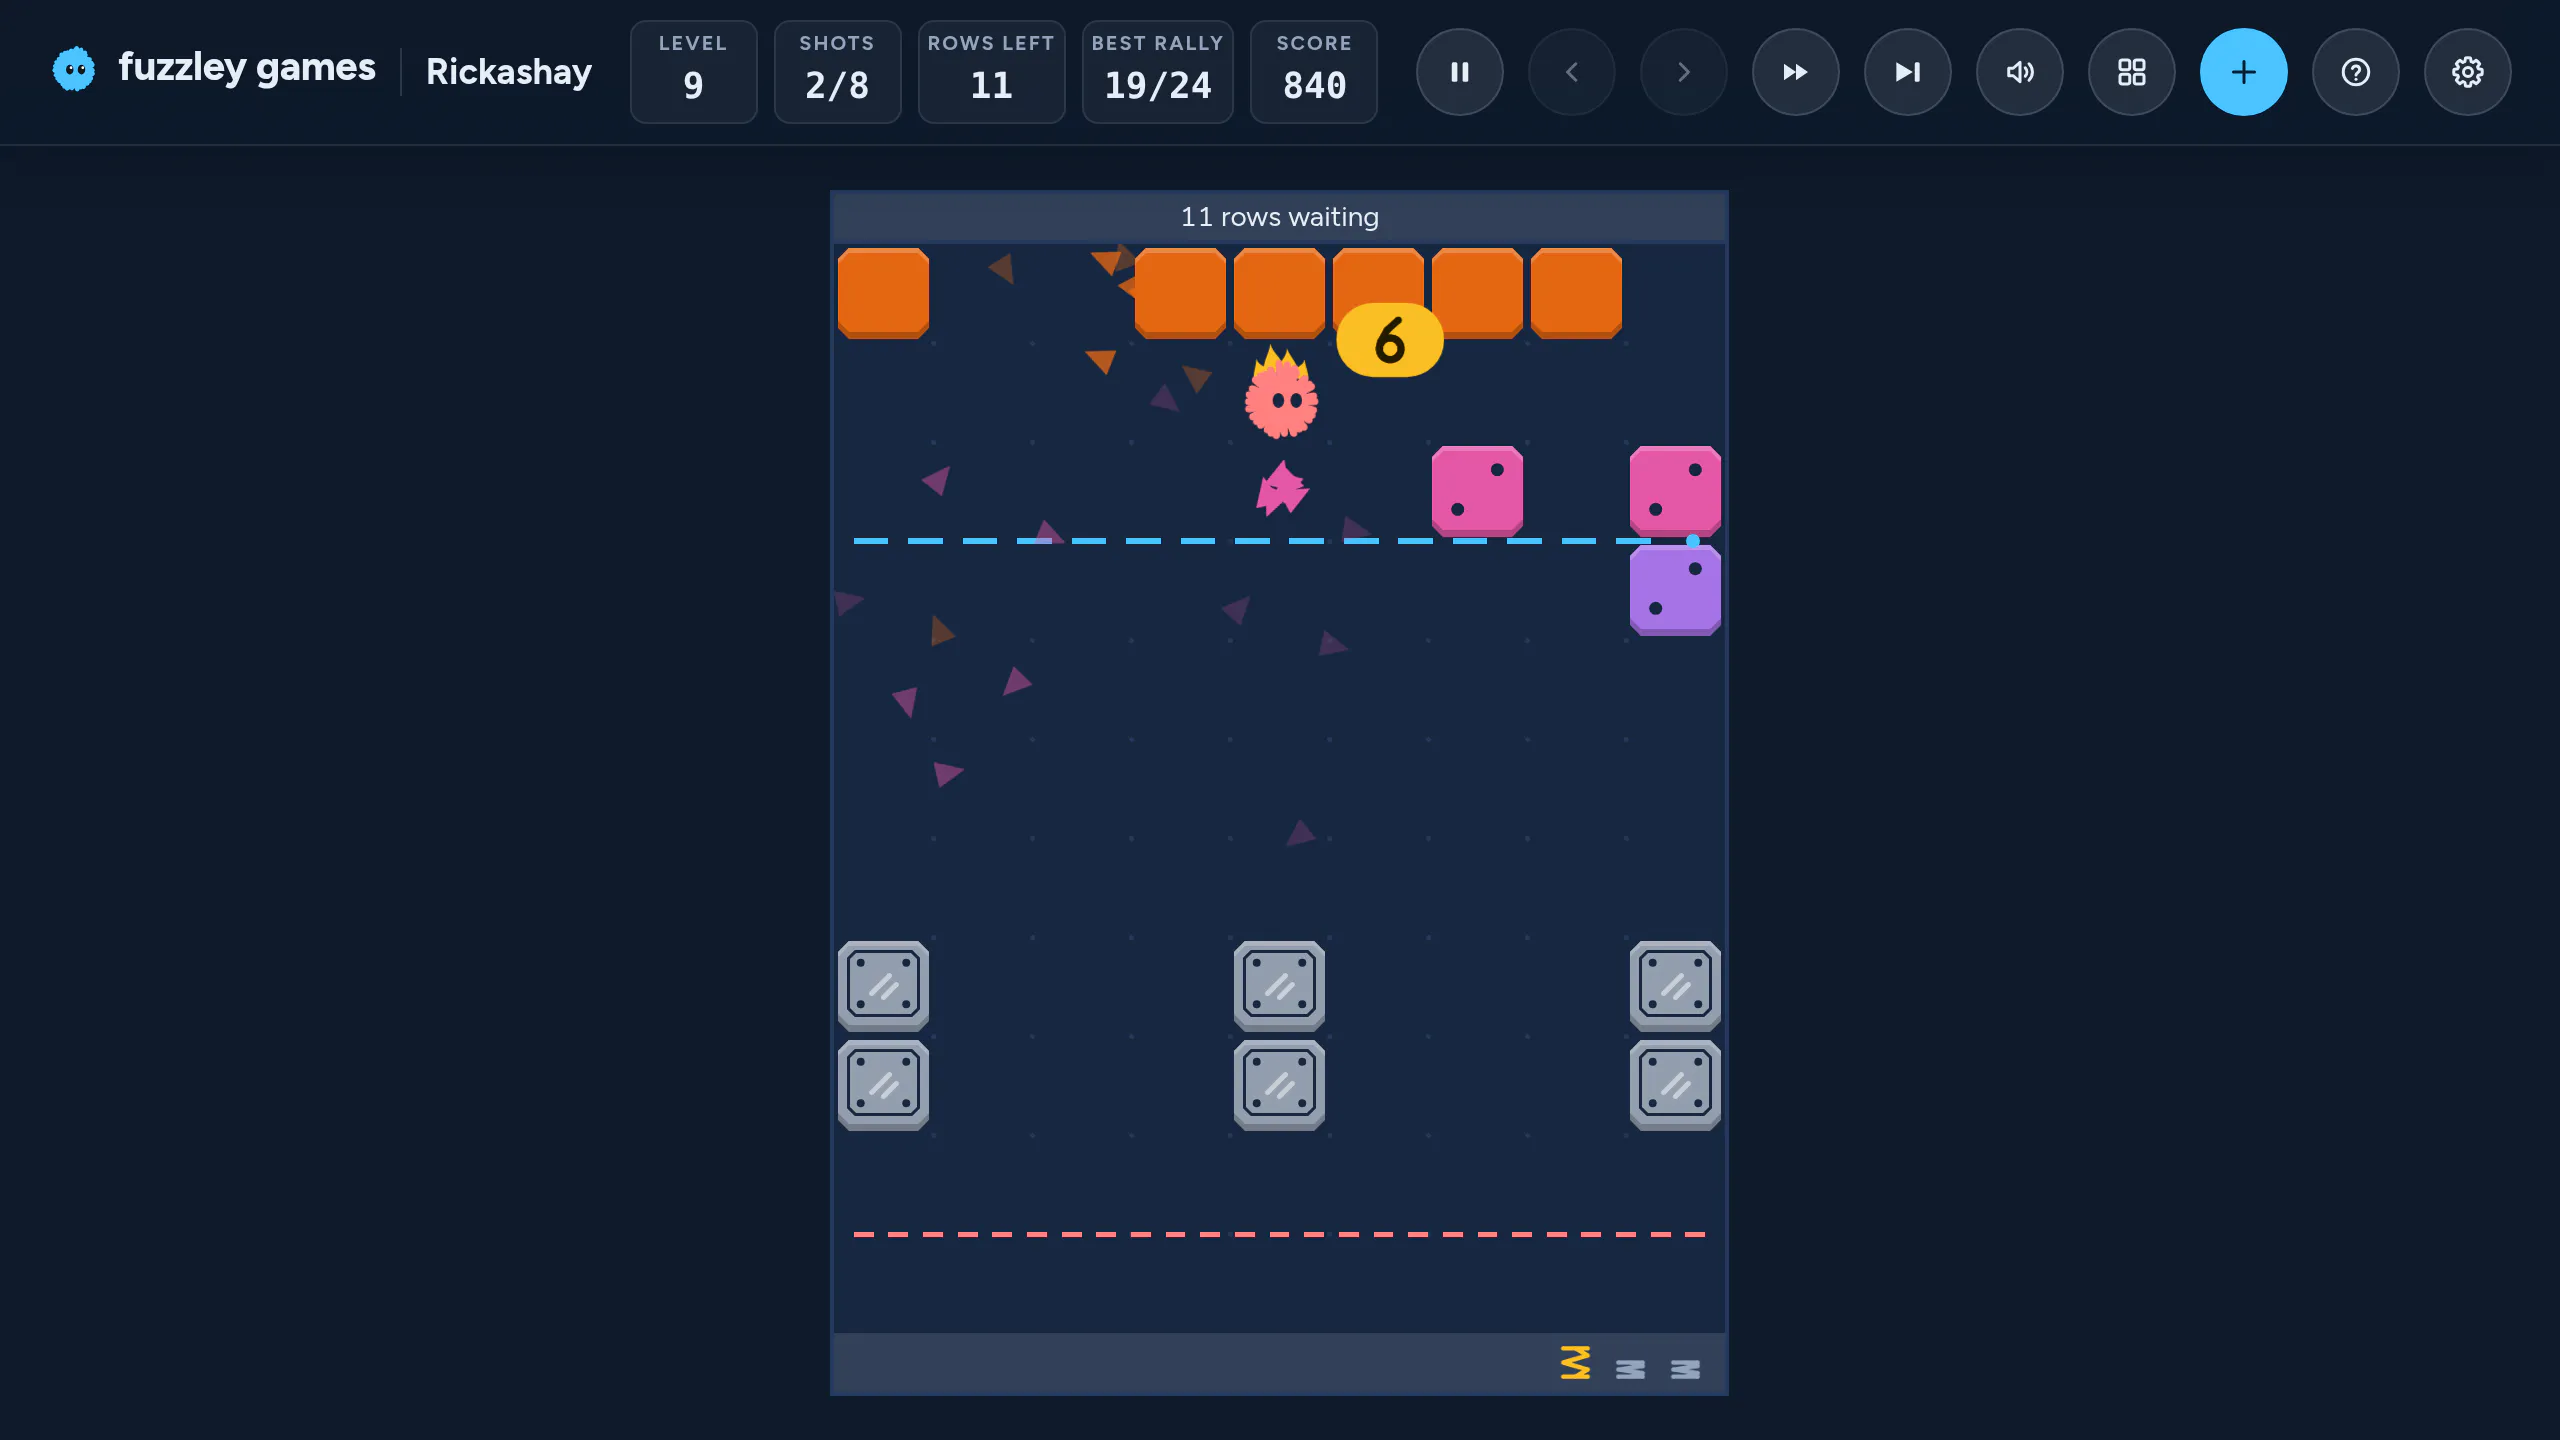
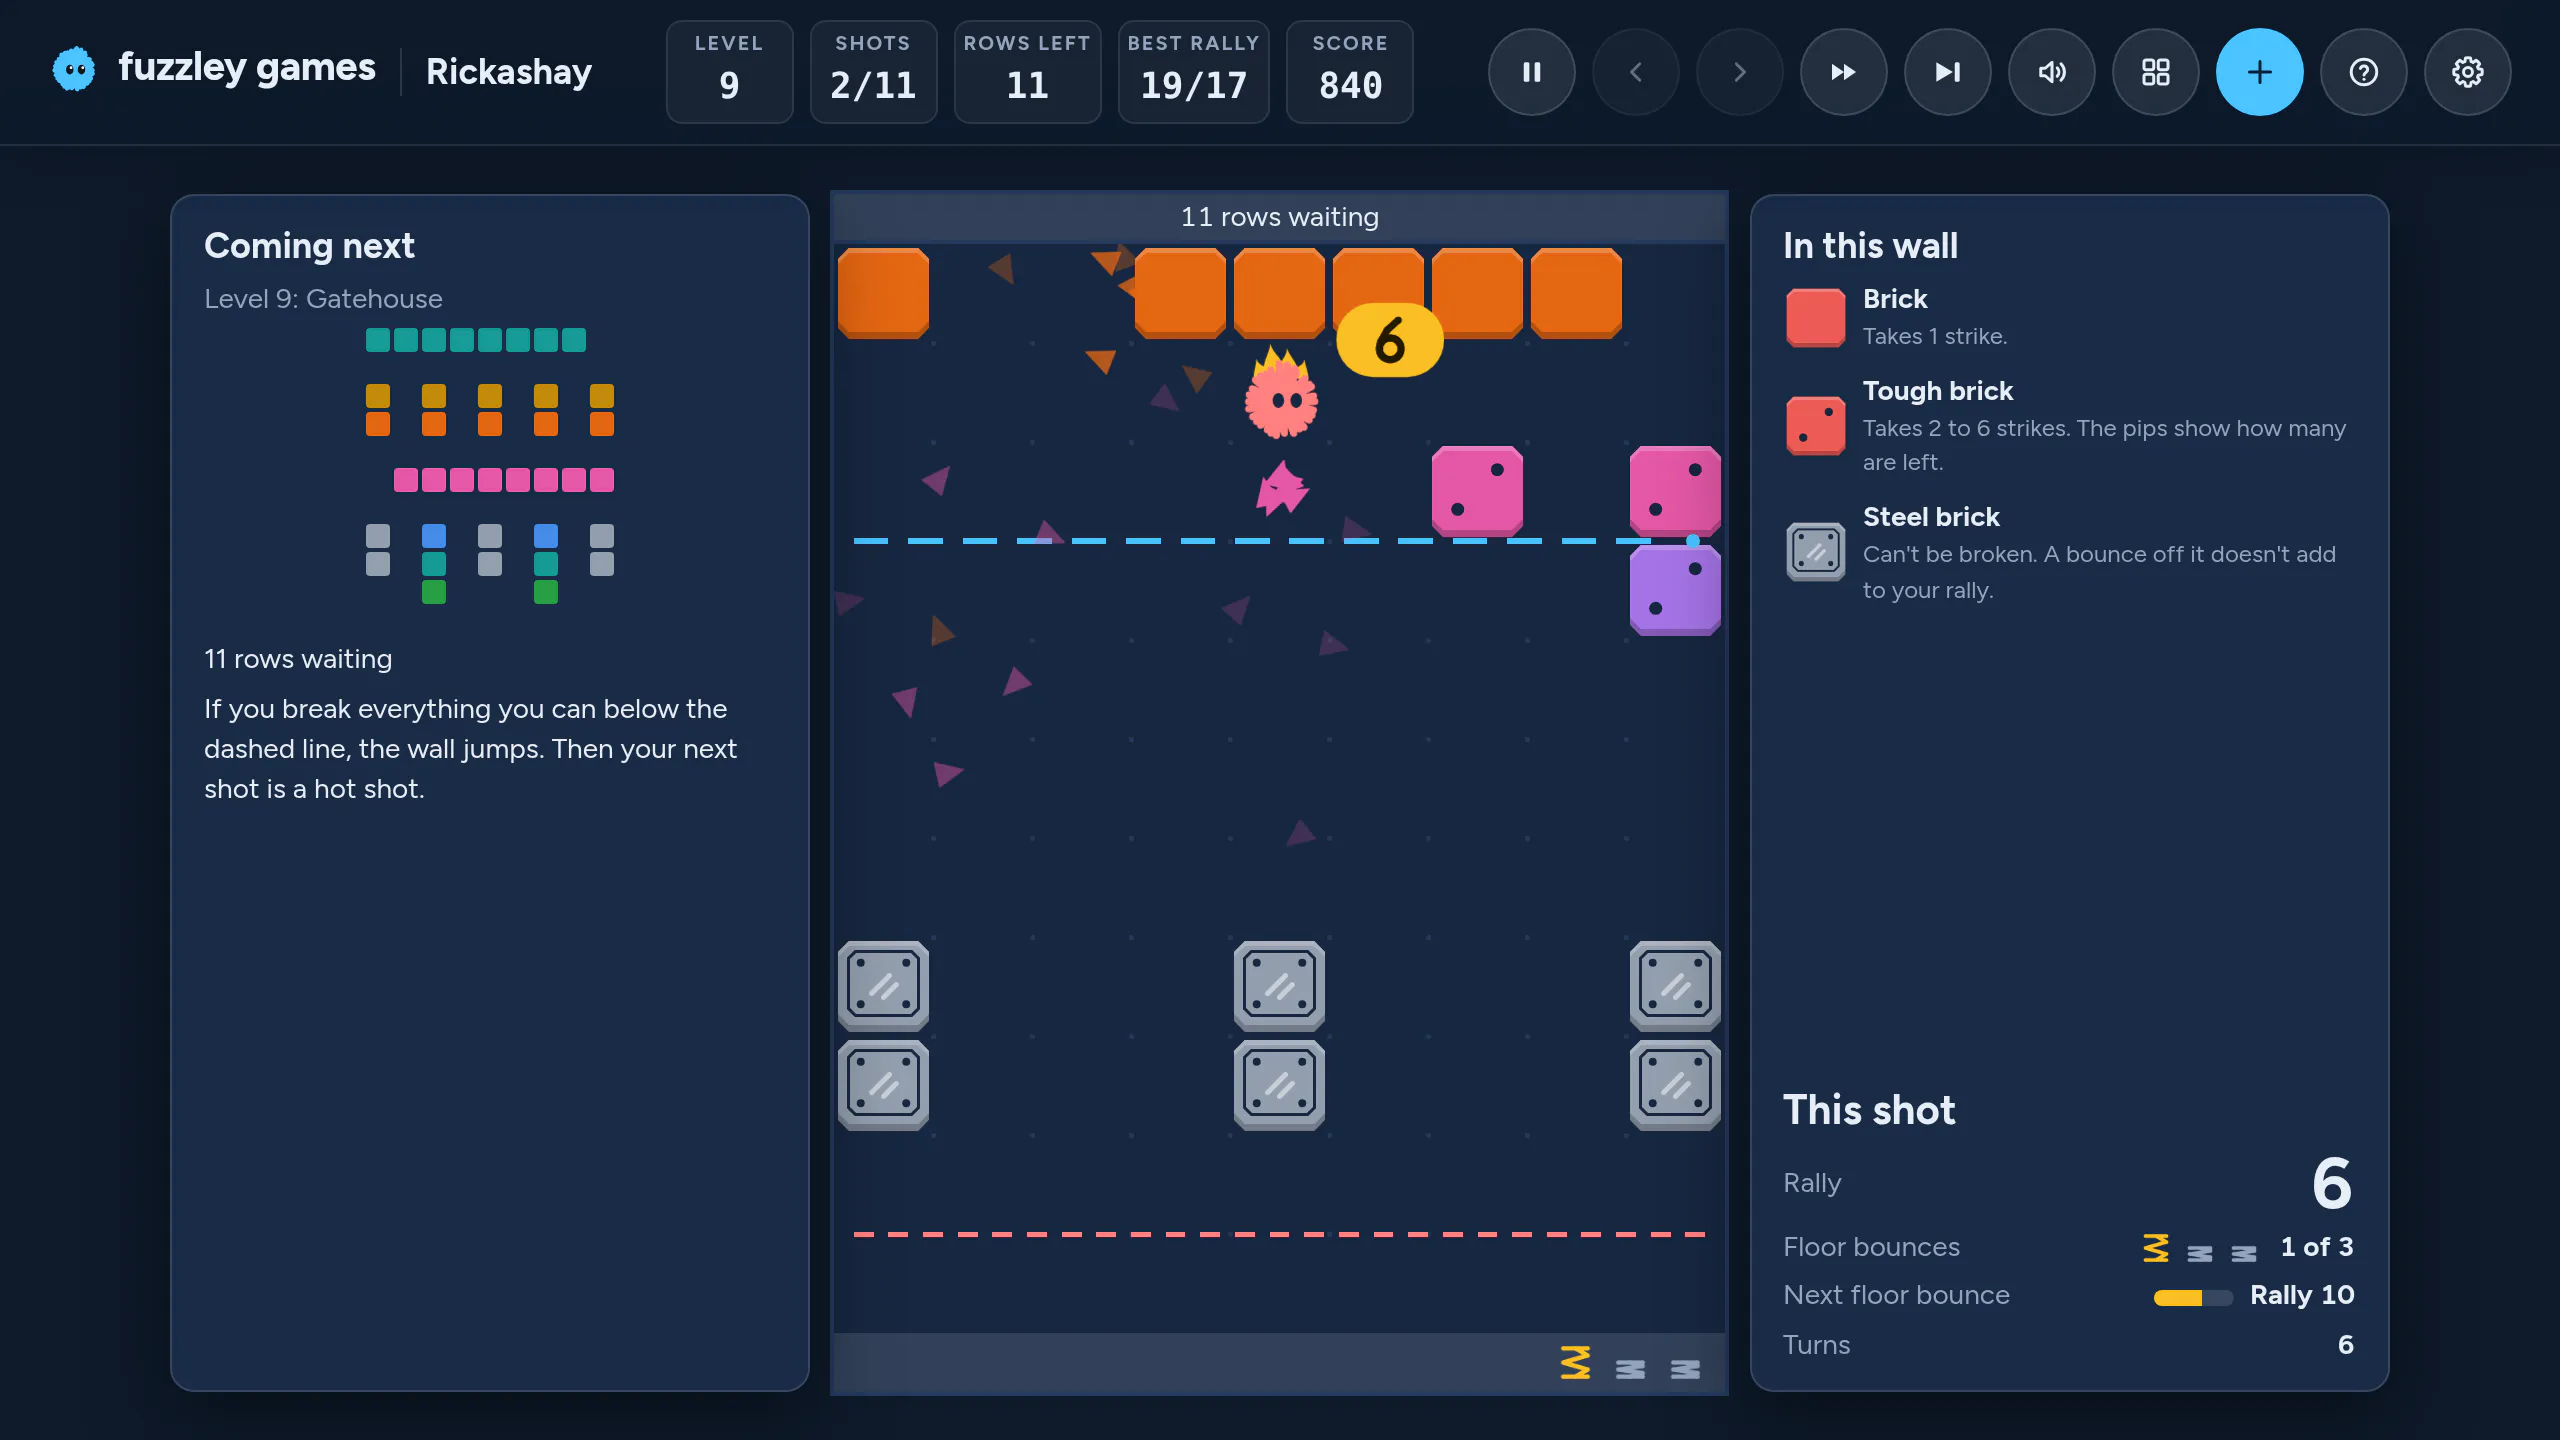
feat(rickashay): play every set on its certified marks, Warm-up's too, listed once beside the sets
GAME_MARKS read Warm-up's pars and rally marks from
src/app/play/warm_up_marks.json, a copy of the specs' hand-made fixture,
since the game came before yarn certify:levels wrote marks/warm-up.json.
src/rules/levels/level_marks.ts now lists every set's certified marks
once, LEVEL_MARKS, beside levels.ts, so a set listed there adds one
line here. It is a module of its own, so levels.ts, which the run's
modules import, never imports the run's stars. The game's token,
every_level.ts' MARKS and the screenshots' API read it, and its spec
holds it to a par and a rally mark for every level on every depth and
for no other level. The app's copy is gone: nothing else read it. The
specs that read hand-made figures keep src/testing/warm_up_marks.json.

In the game, Warm-up's pars move on 78 of its 108 level-depths and its
rally marks on 103, each to what its certificate and its floor games
set. Par, from the fixture's to the certified, by depth:

                11  12  13  14  15  16  17  18  19  20  21  22
First bounce    +1  +1  -2   .  +2   .   .   .   .   .  +1   .
Side door        .   .  -1   .  -2   .  -2  -2  -1  -1   .  -1
Columns         +4  +3  +1  +3  -3  -3  -4  -3  -3  -2  -2  -3
Pips            +3  +2  +2  -1  +1  +1   .   .  -4  -3  -4  -4
Alleys          +3  +3   .   .  +2  +2  +3   .  +1  +3  +1  +1
Stairs           .   .   .  -3   .  -2  -2  -2   .  -1  -1   .
Girders         +3  +4  +1  +1  -3  -4  -4  -4  -3  -3  -3  -3
[…]

diff --git a/frontend/games/rickashay/src/app/tokens.ts b/frontend/games/rickashay/src/app/tokens.ts
@@ -1,13 +1,12 @@
 import { InjectionToken } from "@angular/core";
 import type { ComponentLoad } from "@fz/ui/on_demand";
 import type { Round, RoundStart } from "../rules/flight/events";
+import { LEVEL_MARKS } from "../rules/levels/level_marks";
 import { LEVELS, type LevelEntry } from "../rules/levels/levels";
-import anglesMarks from "../rules/levels/marks/angles.json";
 import { playRound } from "../rules/round/round";
-import { type Marks, marksOf } from "../rules/run/stars";
+import type { Marks } from "../rules/run/stars";
 import type { Shot } from "../rules/shot";
 import type { FlightRules } from "../rules/tuning";
-import warmUpMarks from "./play/warm_up_marks.json";
 
 /** The levels a run is played through, in order: the game's but in specs. */
 export const GAME_LEVELS = new InjectionToken<readonly LevelEntry[]>(
@@ -15,18 +14,10 @@ export const GAME_LEVELS = new InjectionToken<readonly LevelEntry[]>(
   { providedIn: "root", factory: () => LEVELS },
 );
 
-/**
- * Each level's par and rally mark on each depth, which the run's par, the
- * stars, the records and the "Rickashay!" call read: each set's marks as
- * `yarn certify:levels` writes them, but Warm-up's.
- *
- * Warm-up plays on `play/warm_up_marks.json`, a copy of the specs' fixture
- * of Warm-up's, every par one `parFrom()` writes, until its certified marks
- * take its place.
- */
+/** Each level's par and rally mark on each depth, which the run's par, the stars, the records and the "Rickashay!" call read: the game's, but in specs. */
 export const GAME_MARKS = new InjectionToken<Marks>("GAME_MARKS", {
   providedIn: "root",
-  factory: () => marksOf([warmUpMarks, anglesMarks]),
+  factory: () => LEVEL_MARKS,
 });
 
 /** Plays a round of a shot from where it starts, on the rules given, as the rules' `playRound()` does. */

diff --git a/frontend/games/rickashay/src/testing/every_level.ts b/frontend/games/rickashay/src/testing/every_level.ts
@@ -21,10 +21,9 @@ import angles from "../rules/levels/certificates/angles.json";
 import warmUp from "../rules/levels/certificates/warm-up.json";
 import anglesLines from "../rules/levels/lines/angles.json";
 import warmUpLines from "../rules/levels/lines/warm-up.json";
-import anglesMarks from "../rules/levels/marks/angles.json";
-import warmUpMarks from "../rules/levels/marks/warm-up.json";
+import { LEVEL_MARKS } from "../rules/levels/level_marks";
 import { LEVELS, type LevelEntry } from "../rules/levels/levels";
-import { type Marks, marksOf } from "../rules/run/stars";
+import type { Marks } from "../rules/run/stars";
 import { BLIND_CEILING, blindClears } from "./blind";
 import { CERTIFY_API } from "./certify_api";
 import { CARELESS_FLOORS, type RoundPlay, levelPlayOf } from "./line_play";
@@ -46,8 +45,8 @@ export const RALLY_LINES: Readonly<Record<string, holders.Certificates>> = {
   angles: anglesLines,
 };
 
-/** Every level's par and rally mark on every depth, from each set's marks as `yarn certify:levels` writes them. */
-export const MARKS: Marks = marksOf([warmUpMarks, anglesMarks]);
+/** Every level's par and rally mark on every depth, the game's own, which the certificates' pars and the rally lines are held to. */
+export const MARKS: Marks = LEVEL_MARKS;
 
 /** The depths the careless player is held to its floors on: the two shapes of the shallowest fields, and the deepest. */
 export const FLOOR_DEPTHS = [11, 13, 22] as const;

diff --git a/frontend/games/rickashay/src/testing/screenshot_api.ts b/frontend/games/rickashay/src/testing/screenshot_api.ts
@@ -1,22 +1,10 @@
 import { formatPoints } from "@fz/core/format";
+import { LEVEL_MARKS } from "../rules/levels/level_marks";
 import { LEVELS } from "../rules/levels/levels";
-import anglesMarks from "../rules/levels/marks/angles.json";
-import warmUpMarks from "../rules/levels/marks/warm-up.json";
 import { describeAim } from "../rules/run/describe";
 import { SAVED_GAME_VERSION } from "../rules/run/saved_game";
-import { marksOf } from "../rules/run/stars";
 import { keptRun } from "./kept_run";
 import type { ScreenshotApi } from "./script_api";
-
-/**
- * Each level's par and rally mark on each depth, as `yarn certify:levels`
- * writes them, a set's file each, every set's listed: a run kept begins on
- * its level's par, and a level whose set is left out has none.
- *
- * A run kept on its level stores nothing the marks decide, so the page
- * takes it up alike by its own (`GAME_MARKS`), which may be other marks.
- */
-const MARKS = marksOf([warmUpMarks, anglesMarks]);
 
 /**
  * What the scripts under `tools/` take from the game, which they load
@@ -25,7 +13,7 @@ const MARKS = marksOf([warmUpMarks, anglesMarks]);
  * them, and what it says of an aim the keys turn.
  */
 export const SCREENSHOT_API: ScreenshotApi = {
-  keptRun: (run) => keptRun(LEVELS, MARKS, run),
+  keptRun: (run) => keptRun(LEVELS, LEVEL_MARKS, run),
   formatPoints,
   aimWords: describeAim,
   savedGameVersion: SAVED_GAME_VERSION,

diff --git a/frontend/games/rickashay/src/app/tokens.spec.ts b/frontend/games/rickashay/src/app/tokens.spec.ts
@@ -1,8 +1,7 @@
 import { TestBed } from "@angular/core/testing";
+import { LEVEL_MARKS } from "../rules/levels/level_marks";
 import { LEVELS } from "../rules/levels/levels";
-import anglesMarks from "../rules/levels/marks/angles.json";
 import { playRound } from "../rules/round/round";
-import warmUpMarks from "../testing/warm_up_marks.json";
 import { DebugMenuComponent } from "./debug/debug_menu.component";
 import { HelpComponent } from "./help/help.component";
 import {
@@ -32,20 +31,7 @@ describe("the game's tokens", () => {
     await expect(TestBed.inject(LOAD_HELP)()).resolves.toBe(HelpComponent);
   });
 
-  it("read Warm-up's marks from its fixture, and Angles' as the levels' certify script wrote them", () => {
-    expect(TestBed.inject(GAME_MARKS)).toEqual({
-      par: { ...warmUpMarks.par, ...anglesMarks.par },
-      rally: { ...warmUpMarks.rally, ...anglesMarks.rally },
-    });
-  });
-
-  it("hold a par and a rally mark for every level the game plays", () => {
-    const ids = LEVELS.map(({ data }) => data.id).sort();
-    const { par, rally } = TestBed.inject(GAME_MARKS);
-
-    expect([Object.keys(par).sort(), Object.keys(rally).sort()]).toEqual([
-      ids,
-      ids,
-    ]);
+  it("read every set's marks, as the levels' certify script wrote them", () => {
+    expect(TestBed.inject(GAME_MARKS)).toBe(LEVEL_MARKS);
   });
 });

diff --git a/frontend/games/rickashay/src/rules/levels/level_marks.spec.ts b/frontend/games/rickashay/src/rules/levels/level_marks.spec.ts
@@ -1,0 +1,24 @@
+import { DEPTHS } from "@fz/brick-wall/rules/field";
+import type { Pars } from "@fz/brick-wall/rules/par";
+import { LEVEL_MARKS } from "./level_marks";
+import { LEVELS } from "./levels";
+
+/** Returns the depths a table of marks holds each level on, by the level's id. */
+function depthsOf(table: Pars): Record<string, string[]> {
+  return Object.fromEntries(
+    Object.entries(table).map(([id, row]) => [id, Object.keys(row)]),
+  );
+}
+
+describe("LEVEL_MARKS", () => {
+  it("hold a par and a rally mark for every level on every depth, and for no other level", () => {
+    const every = Object.fromEntries(
+      LEVELS.map(({ data }) => [data.id, DEPTHS.map(String)]),
+    );
+
+    expect([depthsOf(LEVEL_MARKS.par), depthsOf(LEVEL_MARKS.rally)]).toEqual([
+      every,
+      every,
+    ]);
+  });
+});

diff --git a/frontend/games/rickashay/src/rules/levels/level_marks.ts b/frontend/games/rickashay/src/rules/levels/level_marks.ts
@@ -1,0 +1,11 @@
+// Every set's marks, as `yarn certify:levels` writes them in marks/, listed
+// once for the game, the specs and the scripts: a set listed in levels.ts
+// lists its marks here too. They are kept out of levels.ts, which the run's
+// modules import, so that it never imports the run's stars.
+
+import { type Marks, marksOf } from "../run/stars";
+import anglesMarks from "./marks/angles.json";
+import warmUpMarks from "./marks/warm-up.json";
+
+/** Every level's par and rally mark on every depth, from each set's marks, in the order the sets are played. */
+export const LEVEL_MARKS: Marks = marksOf([warmUpMarks, anglesMarks]);
